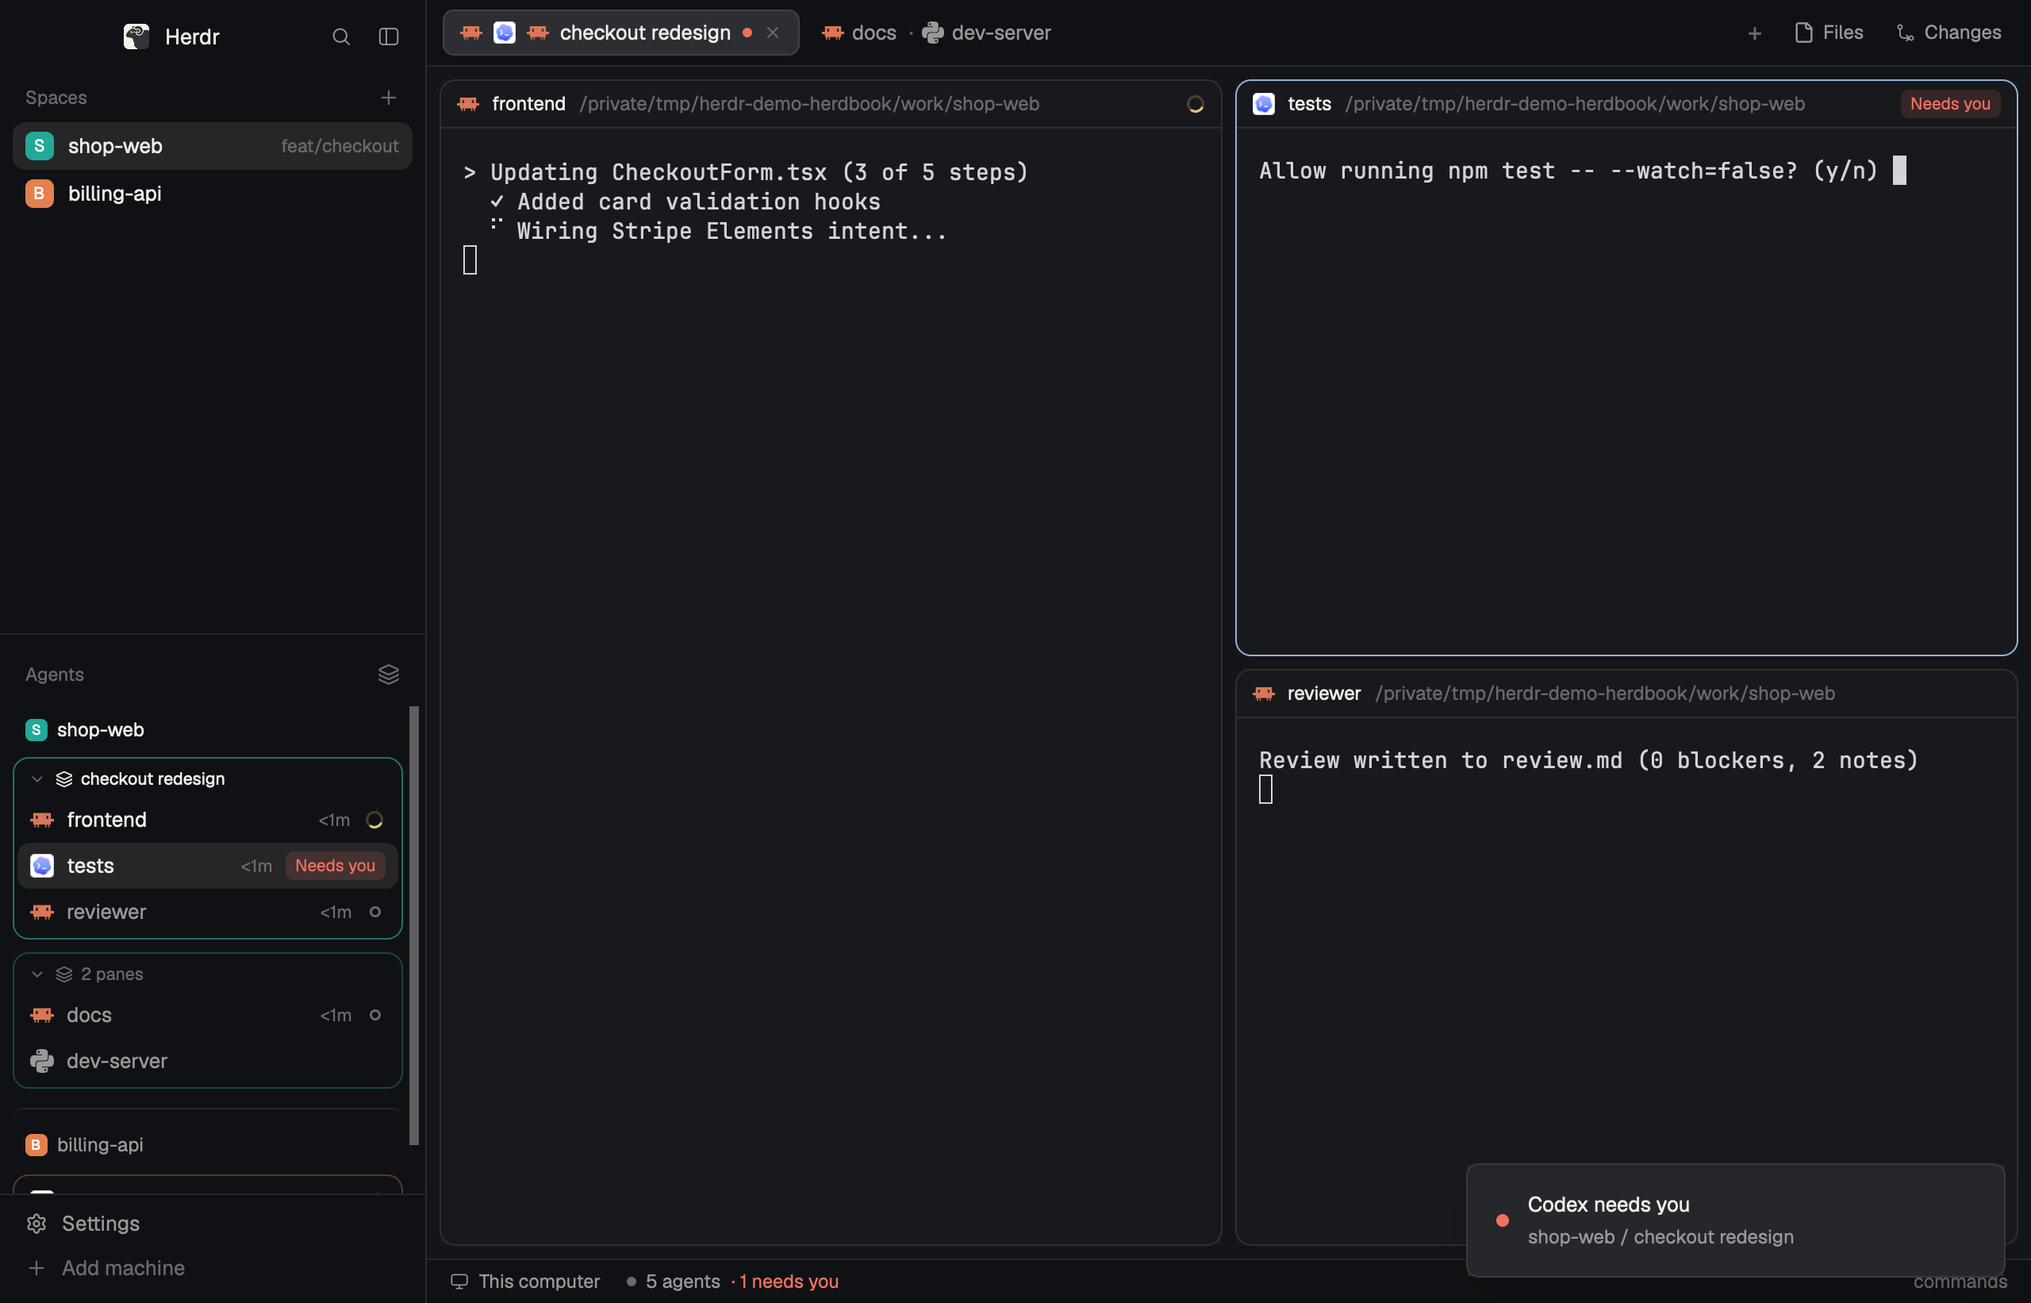
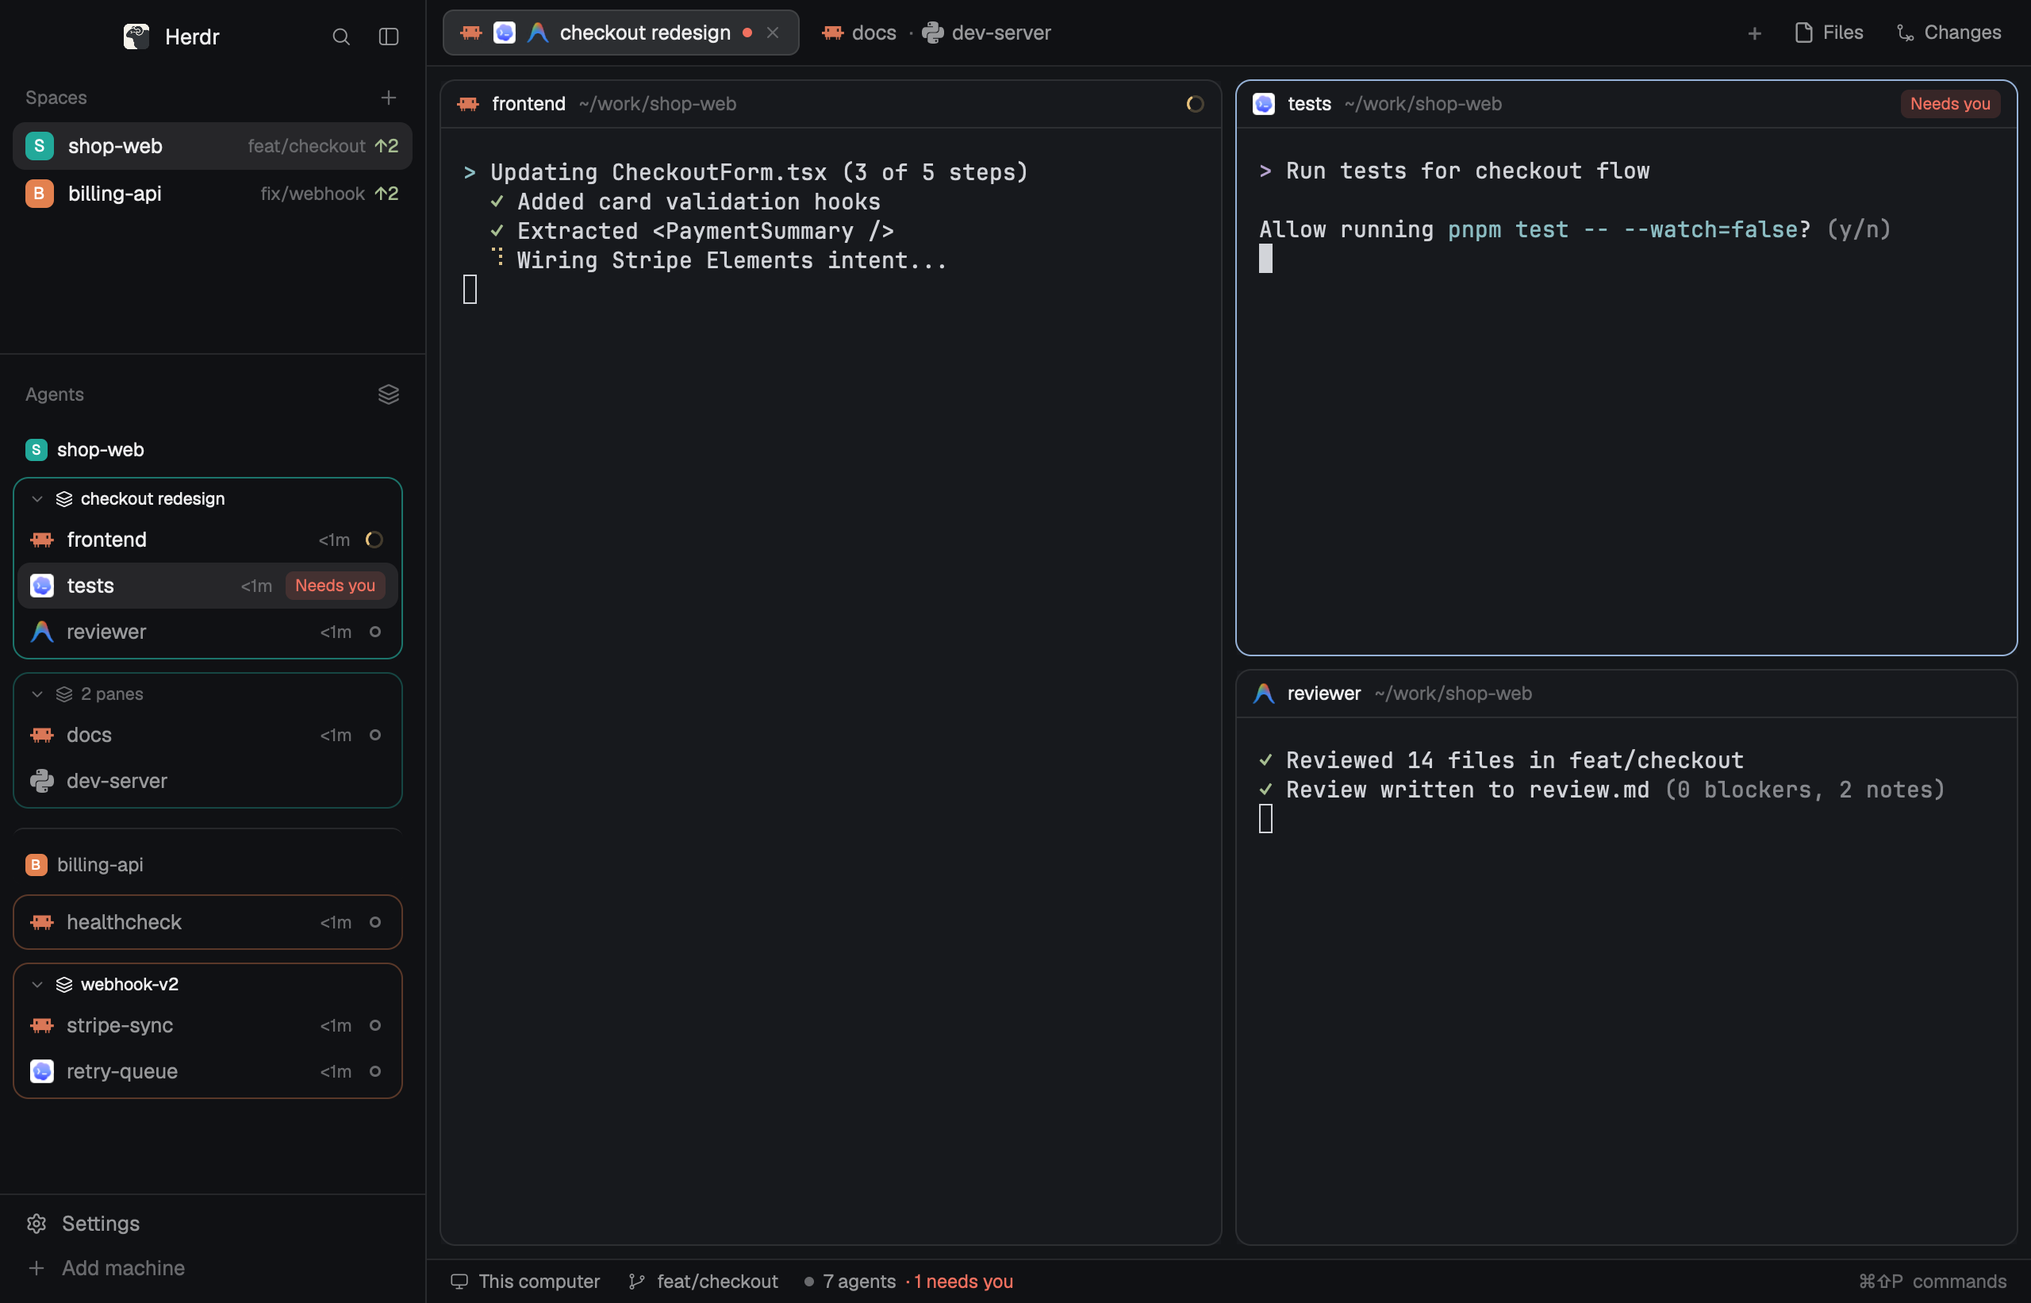
Docs: redesign README with visual tour, animated WebP demos, and cheat sheet

diff --git a/README.md b/README.md
@@ -1,22 +1,14 @@
+<div align="center">
+
 # Herdbook
 
-Visual **Workspace → Tab → Pane** management, persistent pane naming, and full cross-panel drag-and-drop for GUI users of [Herdr](https://herdr.dev).
+**See your whole Herdr window as Workspace → Tab → Pane — name every pane, watch attention flow to the top, and drag anything anywhere.**
+
+**English** · [简体中文](#简体中文) · [Install](#install) · [Visual Tour](#visual-tour) · [Cheat Sheet](#interaction-cheat-sheet) · [Mod Suite](#co-existence-in-tabs-row)
 
 ![Herdbook](preview.png)
 
-- **Three clear layers (`Workspace → Tab → Pane`).**
-  - **Pane:** every terminal (`zsh`, `nvim`, scripts), coding agent CLI (`Claude Code`, `Codex`, etc.), or mod pane. Double-click a pane header or sidebar row, right-click → **Rename pane**, or press `Alt-F2` to give it a persistent `pane-name` label that survives restarts and cross-space moves—with automatic forward compatibility for Herdr 0.1.17's native `pane.rename` (`panes()[i].name` / `agents()[i].pane_name`, including non-terminal mod panes).
-  - **Tab:** one or more panes sharing the screen together. Shown as a pill in the top bar (listing every pane's icon and name) and as a space-tinted rounded card in the sidebar **Agents** tree (foldable, double-click to rename, hover `+` to split a new pane right, right-click for tab actions).
-  - **Workspace:** a collection of tabs in **Spaces** and in the **Agents** tree, in the order you drag them to (a pane, tab group or workspace whose status changes jumps to the top of its group, workspace and the list; the **Spaces** list and tab bar keep their fixed order), with a hover `+` button on workspace headers to open a new tab (or Launch Menu when active).
-- **Groups are real groups.** A tab frame with a header (fold chevron, name, `+`) appears only while a tab holds 2+ panes; when a group shrinks to one pane the stale group name is cleared and it becomes a plain card you can drag out freely.
-- **Full tree + Priority view in `Agents`.** Switch between **Grouped by workspace** (every workspace, tab frame, and pane—including plain shells and mod panes—plus sub-agent trees) and **Priority** (status-reporting agents ordered by `Needs you → Done → Working → Idle`).
-- **Drag and drop everywhere (mouse & trackpad).** Works out of the box on **official Herdr 0.1.16+** (pure-JS cross-panel drag fallback) and automatically upgrades to floating drag cards + 4-edge main-screen split previews on Herdr builds with native drag APIs:
-  - Drag any **Pane** (from a pane header, any top-bar tab's pane icon/name—including the active tab—or any sidebar row) onto another **Pane** (on official Herdr, its `30px` header bar; on native-drag builds, any pane edge/center), onto a **Tab** pill or sidebar **Tab** header to join it, into the **gap** between tabs (or top-bar `+`) to split it into its own tab, or onto any **Workspace** (or `+`) to move it across workspaces on the same machine.
-  - Drag any **Tab** (top-bar pill or sidebar tab header) to reorder tabs, place between tabs in another workspace, or move the whole tab to another/new workspace.
-  - Drag any **Workspace** row or header to reorder workspaces within its machine.
-  - **Trackpad-friendly:** constant-height gap hit zones (`0px` layout shift), viewport-anchored trackpad scroll stability (pressing or dragging a tab/pane halfway down a long list never jumps to the top), stale-drag auto-cleanup, and deliberate edge auto-scrolling.
-
-Works on official Herdr 0.1.16+ (macOS, Linux, Windows). No network.
+</div>
 
 ## Install
 
@@ -26,13 +18,60 @@ Tell your Herdr agent:
 
 It copies `layouts/herdbook.json` and the six `mods/herdbook-*` folders into `~/.config/herdr-app`, merges `keys.json` (`Alt-F2` → `mod.open:herdbook-rename`), checks each mod, and switches to `herdbook`.
 
-- **Non-destructive layout switch:** your own layout (`main` or any custom layout) is untouched—press **`Ctrl+Shift+L`** anytime to cycle between Herdbook and your other layouts.
-- **Standalone / modular use:** every mod degrades gracefully on its own. You can drop `herdbook-agents`, `herdbook-tabs`, `herdbook-spaces`, or `herdbook-pane` individually into your own layout JSON, set `"terminal_menu": "herdbook-menu"` on the layout root, and add `herdbook-rename` for the rename dialog.
+- **Non-destructive:** your own layout (`main` or any custom one) is untouched. Press **`Ctrl+Shift+L`** anytime to cycle back.
+- **Modular:** every mod degrades gracefully on its own. Drop `herdbook-agents`, `herdbook-tabs`, `herdbook-spaces` or `herdbook-pane` into your own layout, set `"terminal_menu": "herdbook-menu"` on the layout root, and add `herdbook-rename` for the rename dialog.
+- Works out of the box on **official Herdr 0.1.16+** (macOS, Linux, Windows). No network access.
 
-## Co-existence in `tabs-row` (Frost, Usage Meter & Launch Menu)
+## Why Herdbook?
 
-- **Launch Menu:** when [Launch Menu](https://github.com/zylbeyondlimits/herdr-launch-menu) (`mods/launch-menu`) is installed, `herdbook-tabs`'s `+` button and the active workspace header's hover `+` automatically open `launch-menu` instead of `new-menu`.
-- **Frost & Usage Meter:** replace the `"tabs"` block in `layouts/herdbook.json` with a `"tabs-row"` row to mount inline toolbar buttons beside `herdbook-tabs`. `herdbook-tabs` automatically tightens its right padding to `3px` whenever any visible sibling block sits after it in the row:
+| | Stock Herdr (`main`) | **Herdbook** |
+|---|---|---|
+| **Naming** | Tab and space names | **Every pane gets a persistent name** (`Alt-F2`, double-click, right-click) that survives restarts and moves between workspaces |
+| **Sidebar view** | Lists agents that report a status | **Full `Workspace → Group → Pane` tree**, including plain shells, editors and mod panes |
+| **Attention** | Fixed order, or sorted by urgency | **Status changes lift pane → group → workspace** to the top of the list while `Spaces` and the tab bar stay put |
+| **Tab bar** | One pill per tab | **Each pane's icon and name inside the pill**, every segment clickable and draggable |
+| **Rearranging** | Commands and shortcuts | **Mouse / trackpad drag-and-drop everywhere**; a group that shrinks to one pane dissolves by itself |
+
+## Visual Tour
+
+### 1. Three clear layers and persistent pane names
+
+![Persistent pane naming](assets/demo-rename-dialog.png)
+
+- **Pane:** every terminal, coding agent or mod pane. Double-click a pane header or sidebar row, right-click → **Rename pane**, or press `Alt-F2`. The name is stored as the terminal label `pane-name` (`hc label t3 pane-name=api`), and Herdr 0.1.17's native `pane.rename` is used automatically when the host has it (including non-terminal mod panes).
+- **Tab group:** one or more panes on screen together. In the top bar it lists every pane's icon and name separated by `·`; in the **Agents** tree it is a space-tinted rounded card with a fold chevron, hover `+` (split right) and a right-click tab menu.
+- **Workspace:** a collection of groups, with its git branch and `↑ahead` in **Spaces** and a hover `+` for a new tab (or [Launch Menu](https://github.com/zylbeyondlimits/herdr-launch-menu) when installed).
+
+### 2. Attention flows to the top — pane → group → workspace
+
+![Three-level status bubbling](assets/demo-status-bubble.webp)
+
+When a pane's status changes (`idle → working`, `working → blocked`, `working → done`, …), it jumps to the top of its group, the group to the top of its workspace, and the workspace to the top of **Agents**. Looking at a finished pane (`done → idle`) never lifts it. Where you drop things by hand stays put until the next status change; **Spaces** and the tab bar keep their fixed order. Prefer urgency? Switch **Agents** to **Priority** (`Needs you → Done → Working → Idle`) from the icon in its header.
+
+### 3. Real groups, auto-dissolve, and drag-and-drop everywhere
+
+![Group lifecycle and auto-dissolve](assets/demo-group-dissolve.webp)
+
+- A group header appears only while a tab holds **2+ panes**. Name it (double-click), and the top bar shows its icons plus the name. When it shrinks to one pane, the stale name is cleared and it becomes a plain card you can drag straight out.
+- **Drag any pane** (pane header, top-bar segment, sidebar row) onto another pane, a tab, the gap between tabs (becomes its own tab), or another workspace. **Drag any tab** to reorder or move it, and **any workspace** to reorder within its machine.
+- **Dual engine:** official Herdr uses a pure-JS cross-panel drag (`shared("herdbook.drag")`) with stale-drag cleanup; builds with native drag APIs automatically get floating drag cards and 4-edge split previews.
+- **Trackpad-friendly:** constant-height gap hit zones, viewport-anchored scrolling (pressing or dragging halfway down a long list never jumps to the top) and deliberate edge auto-scroll.
+
+## Interaction Cheat Sheet
+
+| | Click | Double-click | Hover `+` | Drag | Right-click / key |
+|---|---|---|---|---|---|
+| **Workspace** (header) | Fold / unfold | — | New tab (or Launch Menu) | Reorder workspaces; drop target for panes and tabs | Rename, worktrees, close |
+| **Tab group** (2+ panes) | Focus first pane | Rename tab | Split pane right | Reorder, join, or move to another workspace | Tab menu, move to space |
+| **Pane** (row or header) | Focus | **Rename pane** | Split right | Merge into a tab, split into its own tab, move to a workspace | `Alt-F2` rename, pin, **Move to space…**, close |
+| **Top-bar chip** | Select tab | Rename tab | — | Drag the tab, or any pane segment inside it | Tab menu; `+` opens Launch Menu / New menu |
+
+## Co-existence in `tabs-row`
+
+![Top bar with Herdbook tabs, Frost and Usage Meter](assets/suite-topbar.png)
+
+- **Launch Menu:** when [Launch Menu](https://github.com/zylbeyondlimits/herdr-launch-menu) (`mods/launch-menu`) is installed, the top-bar `+` and the active workspace's hover `+` open it instead of `new-menu`.
+- **Toolbar blocks:** replace the `"tabs"` block in `layouts/herdbook.json` with a `"tabs-row"` to mount inline buttons beside `herdbook-tabs` — [Usage Meter](https://github.com/zylbeyondlimits/herdr-usage-meter) today, Frost (coming soon). `herdbook-tabs` tightens its right padding to `3px` automatically whenever a visible sibling follows it in the row:
 
 ```json
 {
@@ -49,12 +88,21 @@ It copies `layouts/herdbook.json` and the six `mods/herdbook-*` folders into `~/
 }
 ```
 
+| Mod | Description |
+|---|---|
+| [herdr-herdbook](https://github.com/zylbeyondlimits/herdr-herdbook) | This repo: Workspace → Tab → Pane tree, pane names, drag-and-drop |
+| [herdr-usage-meter](https://github.com/zylbeyondlimits/herdr-usage-meter) | Live AI subscription and quota meter beside the tab bar |
+| [herdr-launch-menu](https://github.com/zylbeyondlimits/herdr-launch-menu) | Customizable `+` agent launcher with ordering, flags and per-agent permission toggles |
+| **Frost** *(coming soon)* | Adjustable frosted-glass window blur with lossless layout restore |
+
 ## What it touches
 
 - Writes one terminal label, `pane-name`, via `hc label <terminal> pane-name=<name>` (clear with `hc label t3 pane-name=`), plus `pane.rename` when Herdr 0.1.17+ exposes it.
-- Uses `shared("herdbook.drag")` transiently during active pointer drags on official Herdr builds without native `startDrag`.
+- Writes `tab.rename { id, name: "" }` only to clear the stale name of a group that shrank to one pane.
+- Uses `shared("herdbook.drag")` transiently during pointer drags on official builds without native `startDrag`.
+- Keeps its display order and fold state in each mod's own `localStorage`.
 - Runs `git rev-parse` in a space's folder for git status and worktree menu items, matching Herdr's shipped `spaces` and `menu` mods.
-- Reads only `mod.json` under `appHome()/mods/` via `readTextFile` to detect optional sibling mods (`herdbook-menu`, `herdbook-rename`, `launch-menu`).
+- Reads only `mod.json` under `appHome()/mods/` to detect optional sibling mods (`herdbook-menu`, `herdbook-rename`, `launch-menu`).
 
 ## Tests & Maintenance
 
@@ -62,26 +110,26 @@ It copies `layouts/herdbook.json` and the six `mods/herdbook-*` folders into `~/
 ./tests/run.sh
 ```
 
-Runs the **39-test** Node suite (`tests/drag.test.mjs`, `tests/scroll.test.mjs`, `tests/groups.test.mjs`, `tests/move.test.mjs`, `tests/names.test.mjs`, `tests/rename.test.mjs`) and asserts byte-for-byte parity across all four self-contained `mods/*/drag.js` copies (`herdbook-agents`, `herdbook-tabs`, `herdbook-pane`, `herdbook-spaces`). When editing `mods/herdbook-agents/drag.js`, run `./scripts/sync-drag.sh` first.
+Runs the **39-test** Node suite (`tests/drag.test.mjs`, `tests/scroll.test.mjs`, `tests/groups.test.mjs`, `tests/move.test.mjs`, `tests/names.test.mjs`, `tests/rename.test.mjs`) and asserts byte-for-byte parity across the four self-contained `mods/*/drag.js` copies (`herdbook-agents`, `herdbook-tabs`, `herdbook-pane`, `herdbook-spaces`). When editing `mods/herdbook-agents/drag.js`, run `./scripts/sync-drag.sh` first.
 
-## 中文说明
+## 简体中文
 
-面向喜欢**图形化界面（GUI）与鼠标/触控板直觉操作**的 Herdr 用户，将窗口整理为清晰的 **`Workspace → Tab → Pane`** 三层结构，并支持跨侧边栏、顶栏、主屏自由拖拽移动：
+Herdbook 面向喜欢**图形化界面与鼠标/触控板直觉操作**的 Herdr 用户：把窗口整理成清晰的 **`工作区 → 标签组 → 窗格`** 三层结构，给每个窗格持久命名，让「需要你」的内容自动浮到最上面，并支持跨侧栏、顶栏、主屏随意拖拽。
 
-- **Pane（面板）**：每个终端（`zsh`、`nvim`）、运行中的 Agent CLI 或 Mod 面板。双击标题栏/侧栏行、右键 **Rename pane** 或按 `Alt-F2` 即可写入持久化 `pane-name` 标签（跨工作区迁移与重启均保留），并前向兼容 Herdr 0.1.17 原生 `pane.rename`。
-- **Tab（标签页）**：同屏分屏显示的 1~N 个 Pane 的聚合。顶栏胶囊显示每个分屏图标与名称；左侧 **Agents** 面板的「Grouped by workspace」视图将其展示为带工作区主题色的圆角卡片框（支持普通终端显示、折叠、双击改名、悬停 `+` 快速向右分屏、固定顺序不乱跳；右上角可随时切回 **Priority** 视图）。
-- **全区域鼠标/触控板拖拽（双引擎兼容）**：官方版 Herdr 0.1.16+ 开箱即用，支持在 Spaces、Agents、顶栏与 Pane 标题栏之间互拖合并、拆成独立 Tab、排序或同机跨 Workspace 迁移；针对触控板做了外层 `*-viewport` 视口锚定防跳顶设计（长列表滚到底部按住/拖拽 Tab 或 Pane 保持 `0px` 稳定不回弹）；随时可按 `Ctrl+Shift+L` 无损切回原布局，也能在 `tabs-row` 中与 Frost、Usage Meter、Launch Menu 无缝共存。
+- **窗格持久命名：** 双击窗格标题栏或侧栏行、右键 **Rename pane** 或按 `Alt-F2`，名字写入终端标签 `pane-name`（重启、跨工作区迁移都保留），Herdr 0.1.17+ 自动改用原生 `pane.rename`。
+- **完整三层树：** 侧栏 **Agents** 的 `Grouped by workspace` 视图展示所有工作区、标签组和窗格（含普通终端、编辑器、Mod 窗格与子 Agent）；也可一键切到 **Priority** 视图（按 `Needs you → Done → Working → Idle` 排序）。
+- **状态变化三级冒泡置顶：** 窗格状态变化时，窗格跳到组内最前，该组跳到工作区最前，该工作区跳到整个 Agents 列表最前；点开已完成的窗格（`done → idle`）不会触发跳动；手动拖拽的位置会保持到下一次状态变化；左上角 **Spaces** 与顶栏保持原有顺序。
+- **真正的「组」：** 标签里有 2 个及以上窗格才显示组头（可折叠、可命名）；缩回 1 个窗格时自动清掉旧组名，变成可随意拖出的普通卡片。顶栏胶囊按分屏顺序显示每个窗格的图标和名字（`·` 分隔，每段都可单独点击或拖走）。
+- **全区域拖拽（双引擎）：** 官方版 Herdr 0.1.16+ 开箱即用，可在 Spaces、Agents、顶栏与窗格标题栏之间互拖合并、拆成独立标签、排序或同机跨工作区迁移；支持原生拖拽 API 的构建会自动升级为浮动拖拽卡片与四边分屏预览；触控板长列表滚动、按住拖拽不会跳回顶部。
+- **自由组合：** 随时按 `Ctrl+Shift+L` 无损切回原布局；也可在 `tabs-row` 中与 Usage Meter、Launch Menu（以及即将发布的 Frost）并排使用。
+
+| | 单击 | 双击 | 悬停 `+` | 拖拽 | 右键 / 快捷键 |
+|---|---|---|---|---|---|
+| **工作区** | 折叠 / 展开 | — | 新建标签（或 Launch Menu） | 调整顺序；也是窗格与标签的投放目标 | 改名、Worktree、关闭 |
+| **标签组**（2+ 窗格） | 聚焦首个窗格 | 重命名标签 | 向右分屏 | 排序、合并、迁移到其他工作区 | 标签菜单、移动到工作区 |
+| **窗格** | 聚焦 | **重命名窗格** | 向右分屏 | 合并进标签、拆成独立标签、移动到工作区 | `Alt-F2` 改名、置顶、移动到工作区、关闭 |
 
 安装时对你的 Herdr agent 说：「Add the Herdbook layout from github.com/zylbeyondlimits/herdr-herdbook」。
-
-## Related Mods
-
-| Mod / Layout | Description |
-|---|---|
-| [herdr-herdbook](https://github.com/zylbeyondlimits/herdr-herdbook) | Visual `Workspace → Tab → Pane` tree, persistent pane naming, and full cross-panel drag-and-drop layout |
-| [herdr-usage-meter](https://github.com/zylbeyondlimits/herdr-usage-meter) | Live AI coding subscription & quota meter beside the tab bar (`Claude`, `Codex`, `Antigravity`, `Copilot`, etc.) |
-| [herdr-frost](https://github.com/zylbeyondlimits/herdr-frost) | Adjustable frosted-glass window blur and single-layer region translucency with lossless layout restore |
-| [herdr-launch-menu](https://github.com/zylbeyondlimits/herdr-launch-menu) | Customizable `+` agent launcher with custom order, extra CLI flags, and per-agent permission bypass toggles |
 
 ## License
 
